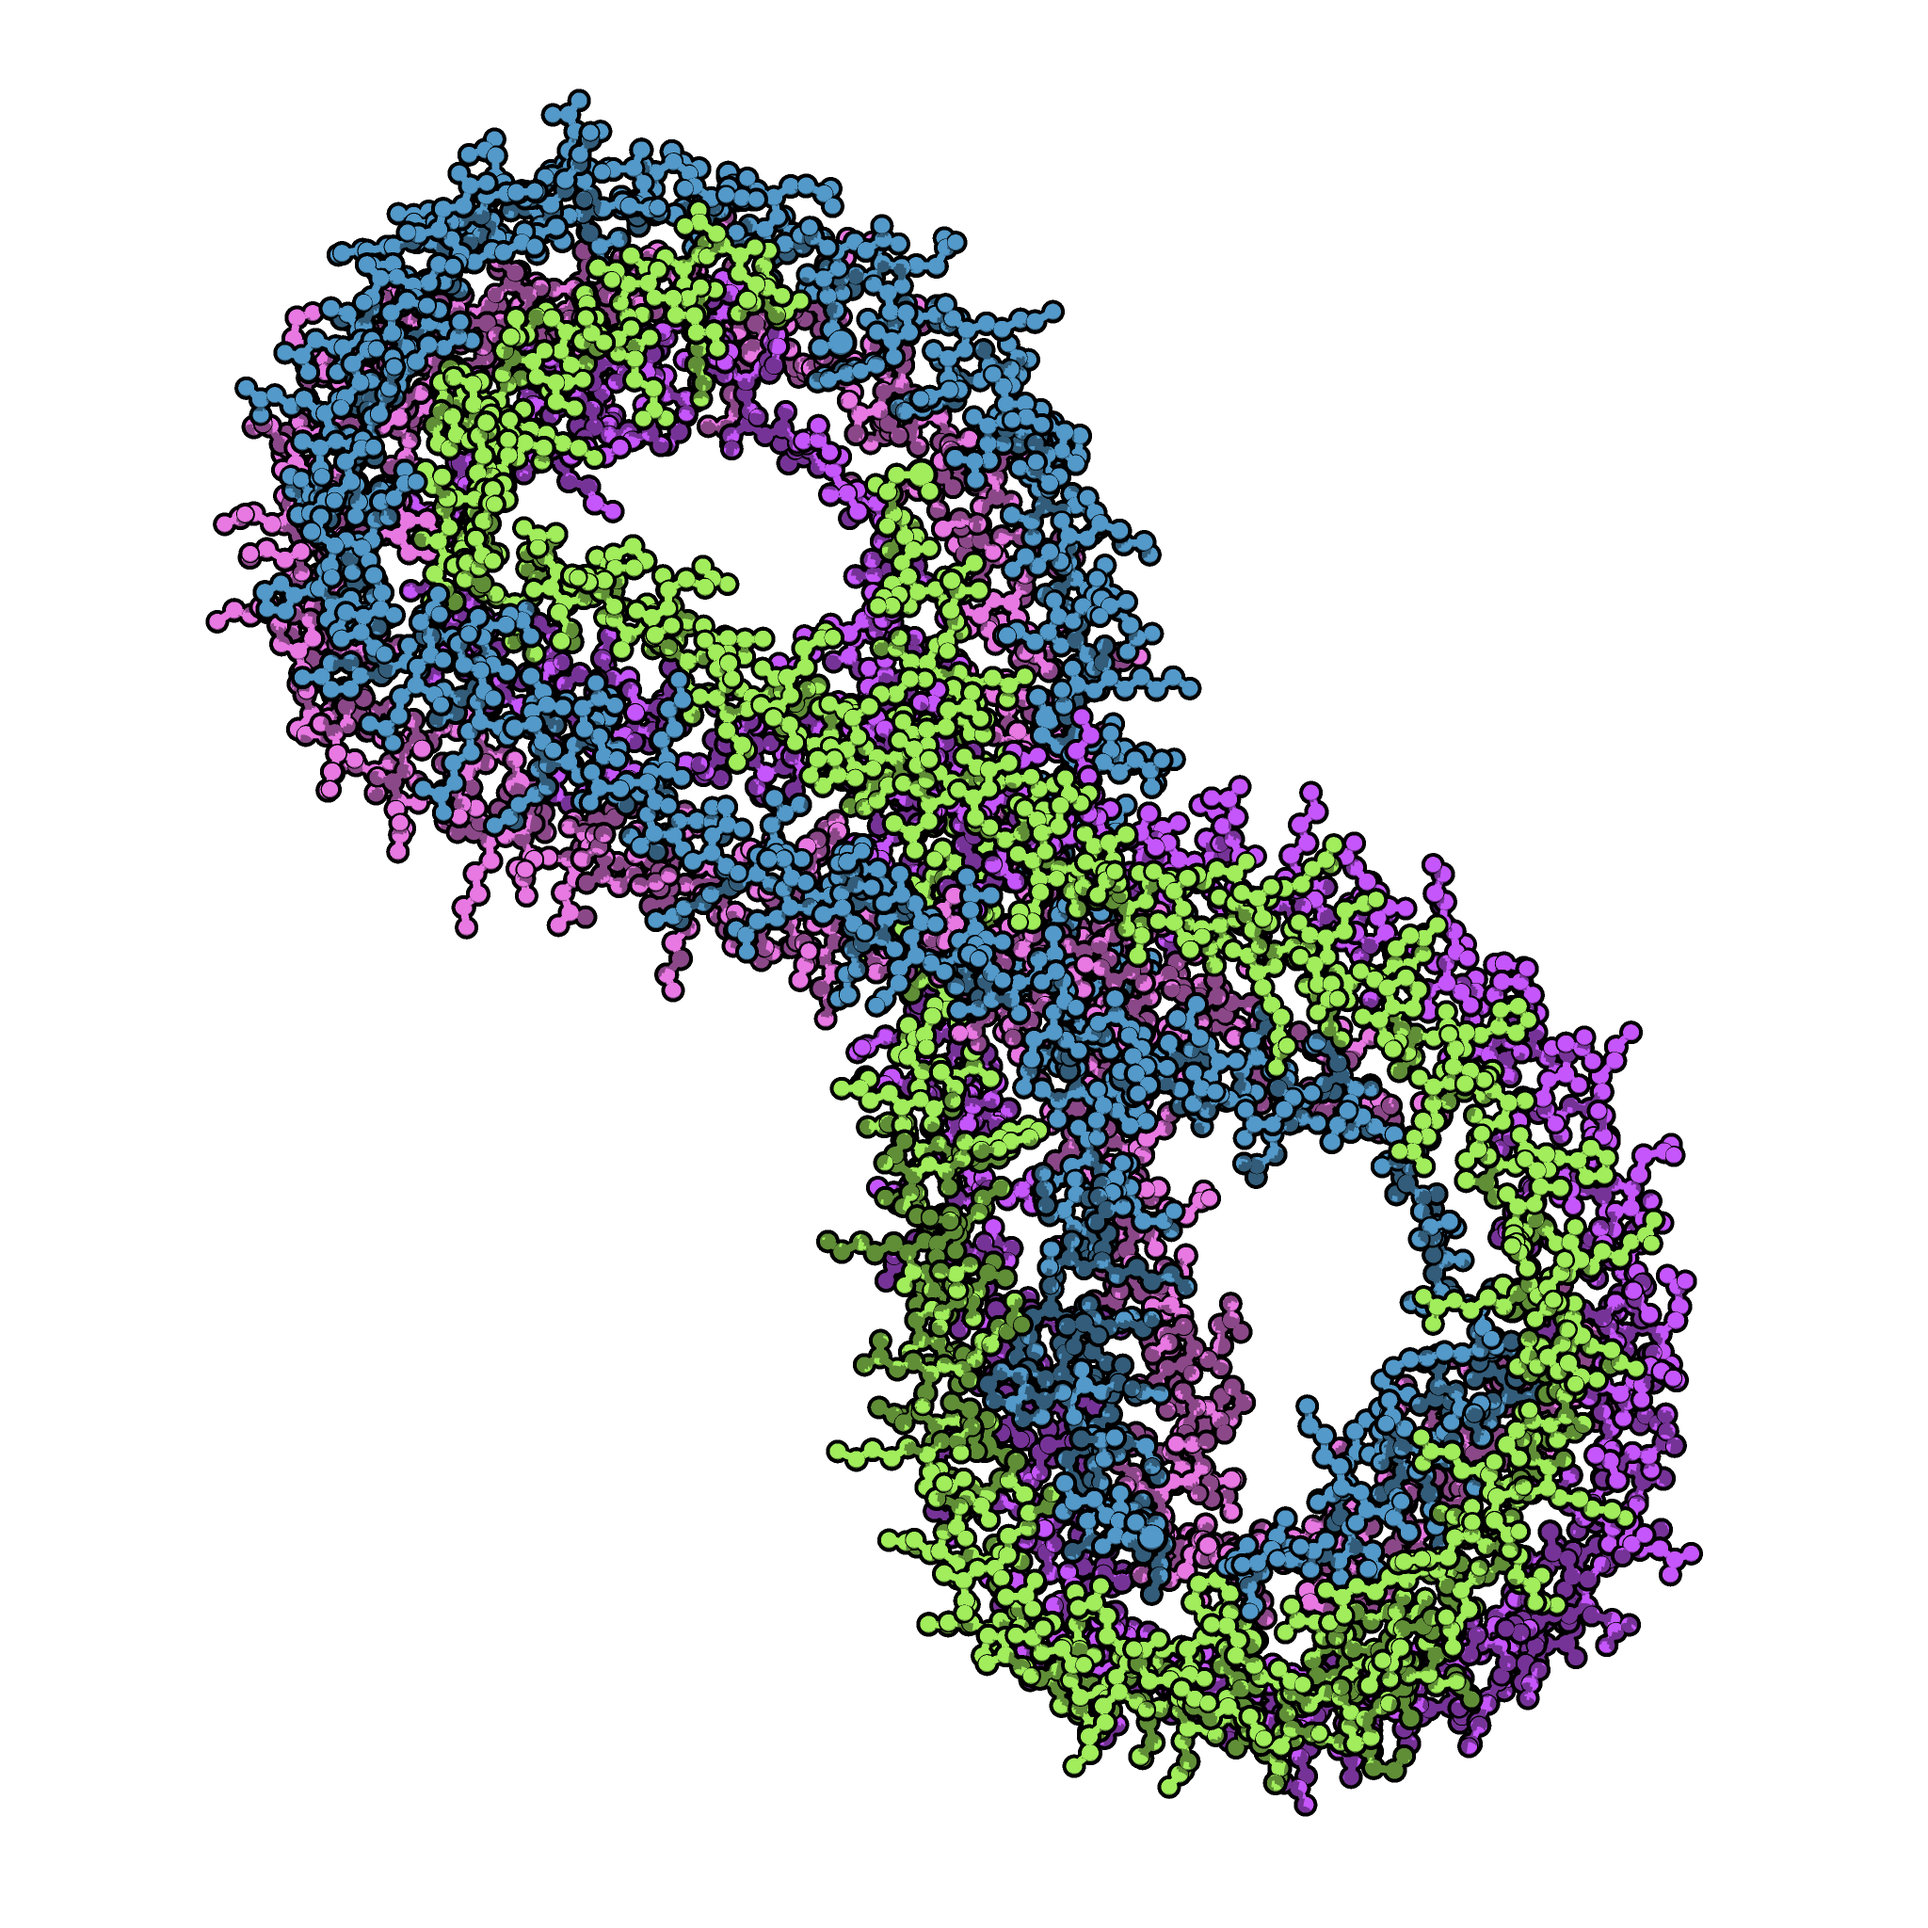
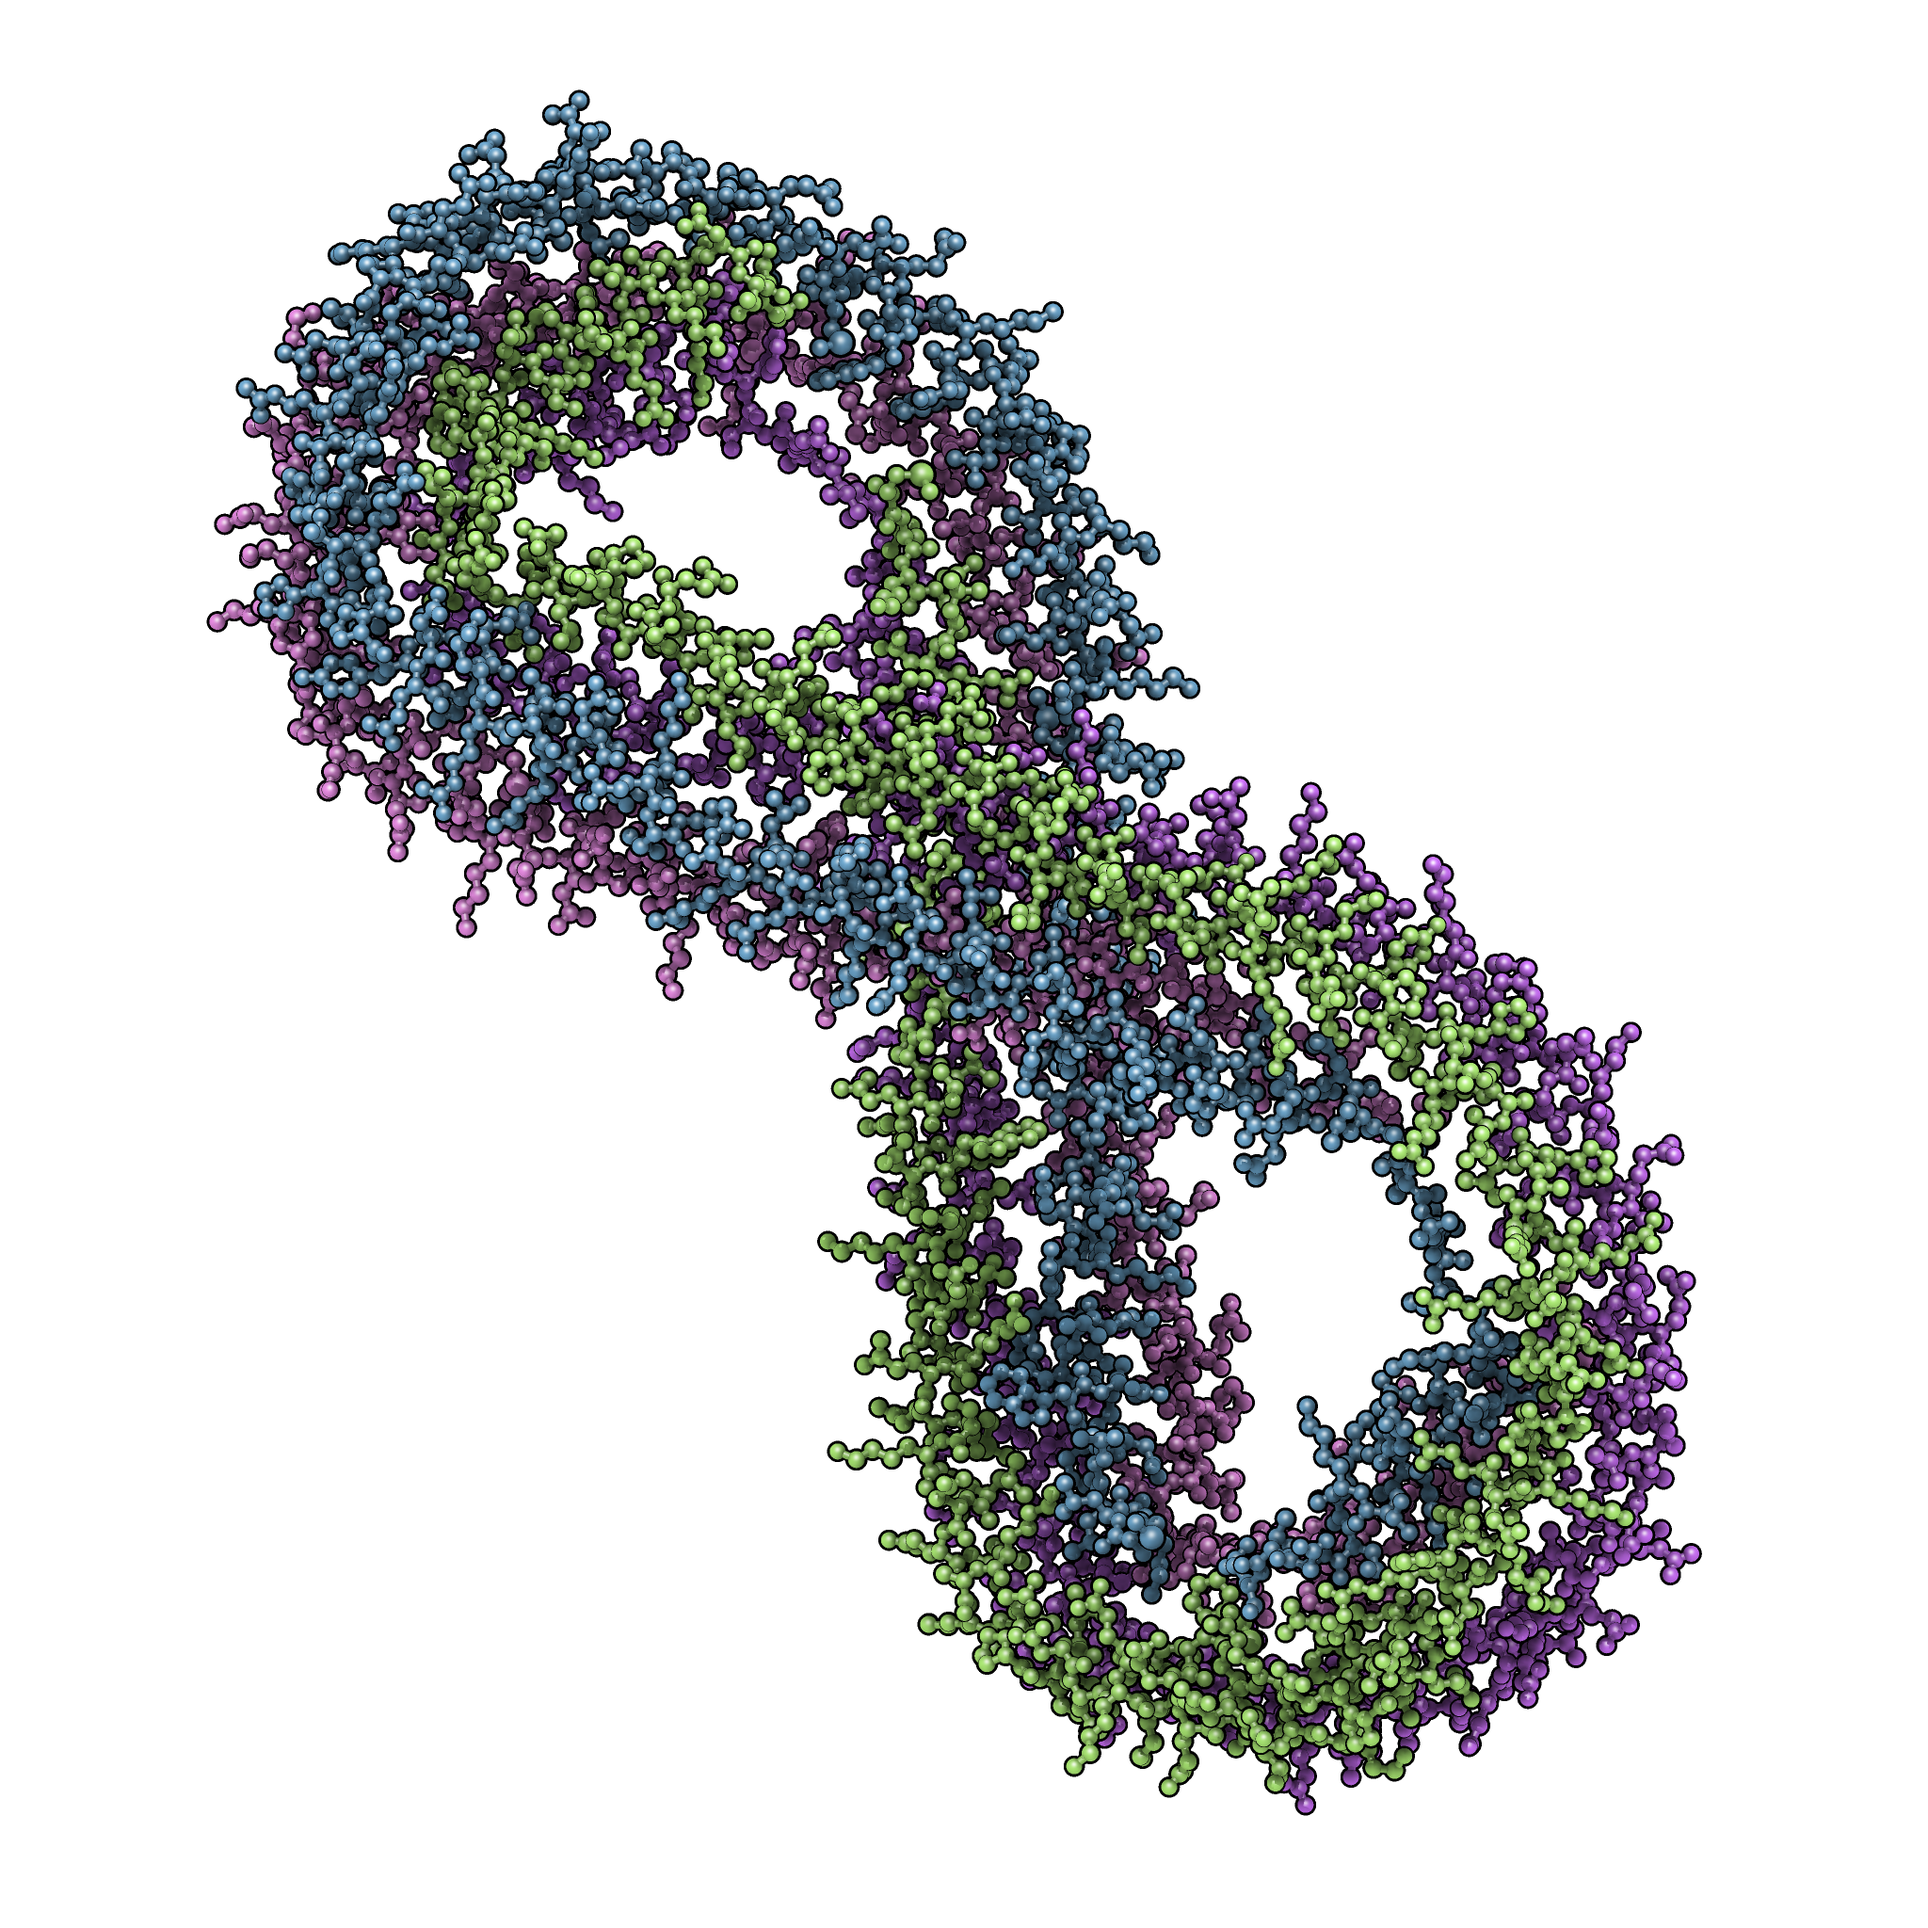
update publication

Changed region(s): [[0.0938, 0.0312, 0.875, 0.9375]]

diff --git a/lab3/readme.md b/lab3/readme.md
@@ -59,5 +59,5 @@
 
 ## Изображение белка публикационного качества
 
-Использовал представление `Balls'n'Sticks`, цветовую модель `Per chain` и пресет `Molecule of the Month`  
-![Publication](./Publication.png)  
+Использовал представление `Balls'n'Sticks`, цветовую модель `Per chain` и пресет `Mixed 2`  
+![Publication](./Publication.png)
